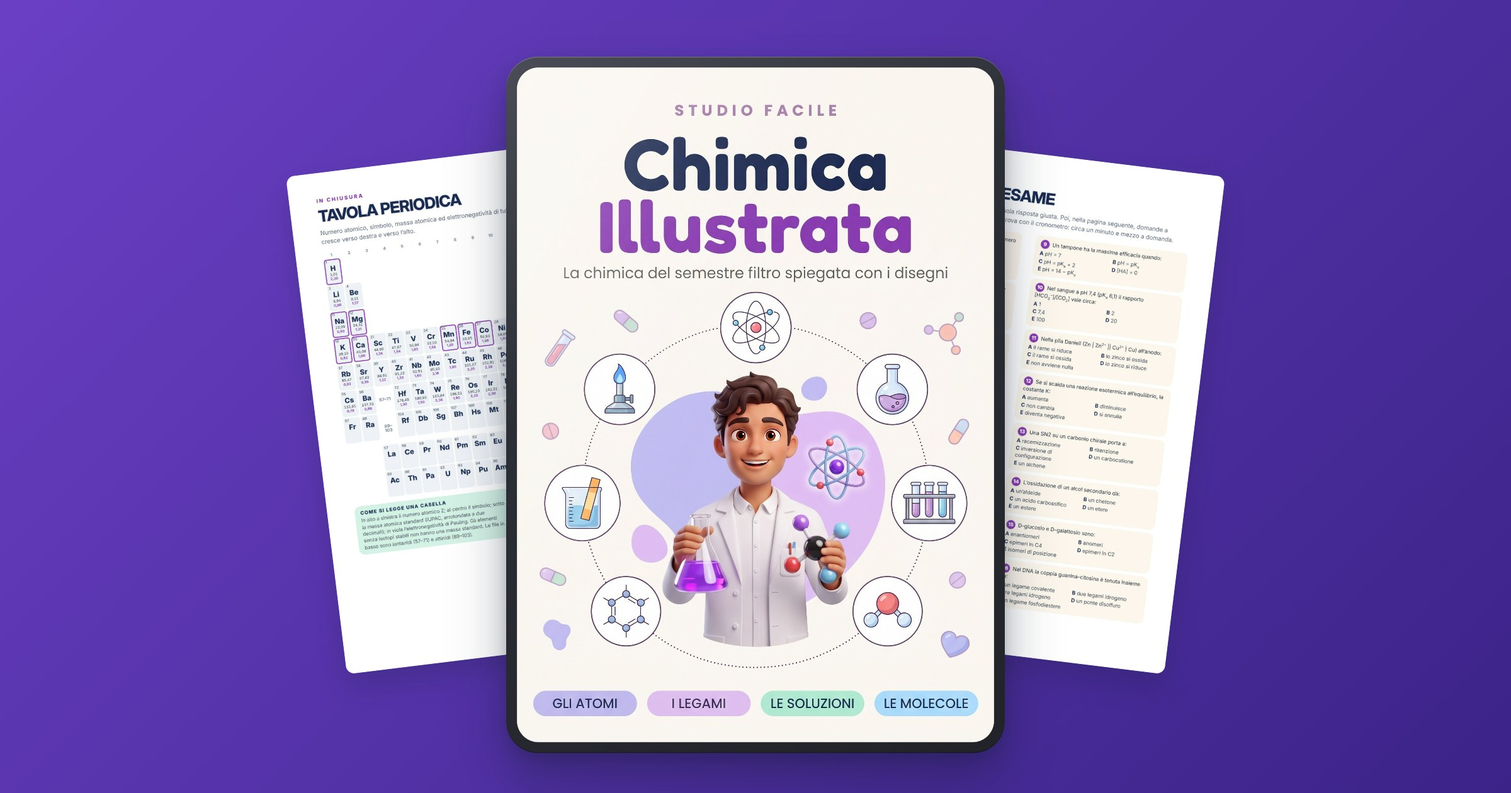
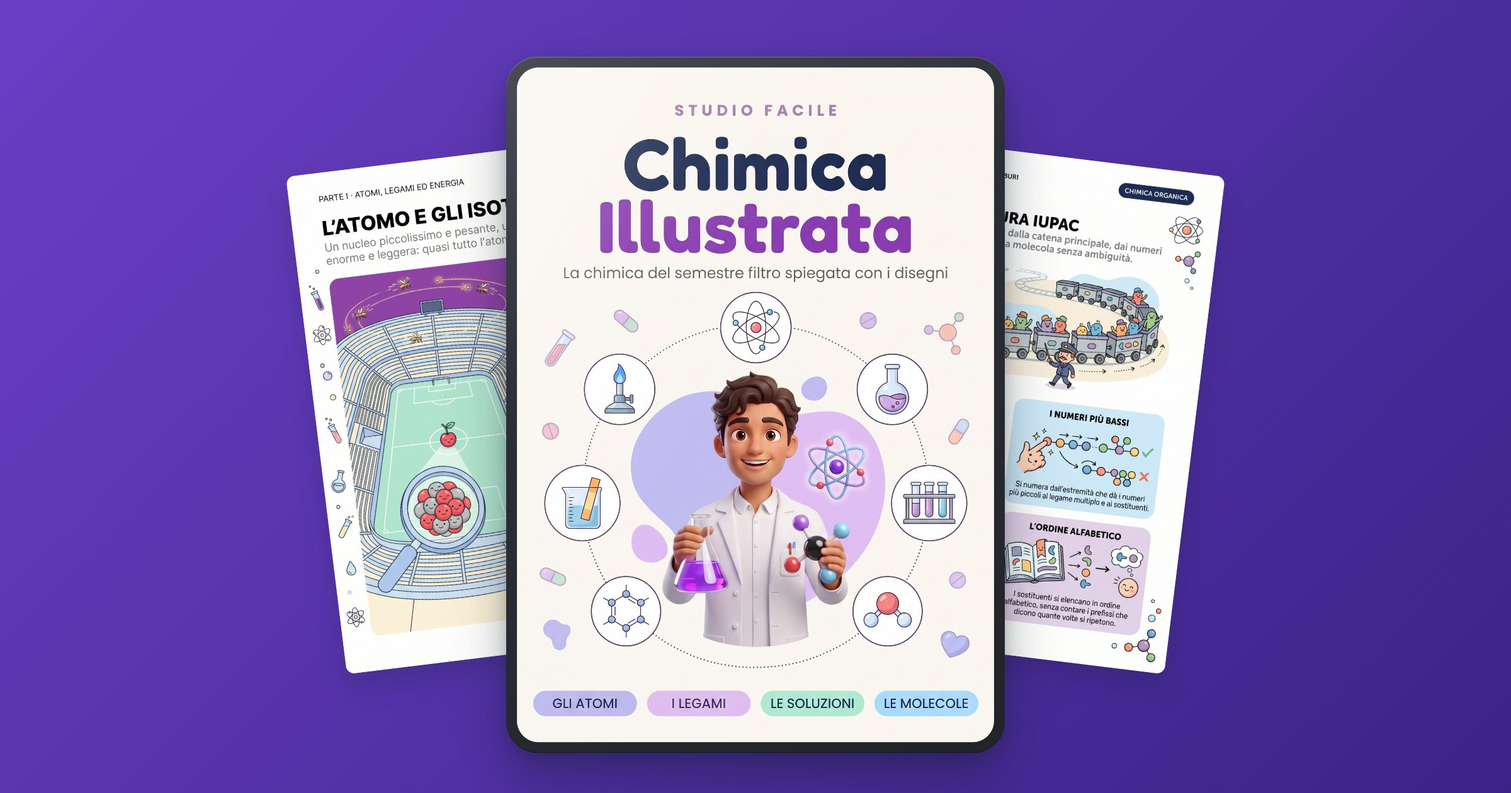
chimica: pagine vere, 156 pagine e i due bonus che esistono
La landing era del 22/09, quando in pagine/ c'erano solo le pagine di
chiusura: il carosello, il collage e i fogli dietro il tablet mostravano
tavola periodica, tabelle ed esami — nessuna pagina che facesse vedere
come si spiega un argomento. Ora il libro e' finito e si mostrano a1, p2,
c2, s8, r3 e m3.

Il conteggio veniva da struttura.py, che conta solo le pagine illustrate:
diceva 87 quando il PDF consegnato ne ha 156, perche' ogni pagina ha
accanto la sua scheda verificata. Ora si legge dal PDF.

I bonus erano «Le Parole della Chimica», mai scritto, e «Quiz di Chimica»,
che esiste solo come banca dati senza PDF: chi comprava pagava tre cose e
ne riceveva una. Al loro posto due file consegnabili oggi e utili allo
stesso esame — 300 Quiz di Biologia e Ripasso Rapido di Fisica, le altre
due materie del semestre filtro — con le copertine vere, non finte.

Changed region(s): [[0.6562, 0.2167, 0.8125, 0.8357], [0.1875, 0.2167, 0.3438, 0.8048]]

diff --git a/chimica.html b/chimica.html
@@ -22,7 +22,7 @@
   <meta name="theme-color" content="#2645a0">
   <!-- title ~57 y description ~148 caracteres: es lo que Google alcanza a mostrar -->
   <title>Chimica Illustrata: la chimica spiegata con i disegni | Studio Facile</title>
-  <meta name="description" content="La chimica in 87 pagine illustrate, 7 parti e 69 capitoli con formule e numeri verificati, più 2 bonus. Per liceo, test d'ingresso e semestre filtro. 19,90€.">
+  <meta name="description" content="La chimica in 156 pagine illustrate, 7 parti e 69 capitoli con formule e numeri verificati, più 2 bonus. Per liceo, test d'ingresso e semestre filtro. 19,90€.">
   <meta name="robots" content="noindex, nofollow">
   <meta name="author" content="Studio Facile">
   <link rel="alternate" hreflang="it" href="https://www.studiofacilebook.com/chimica">
@@ -44,7 +44,7 @@
   <!-- Twitter / X -->
   <meta name="twitter:card" content="summary_large_image">
   <meta name="twitter:title" content="Chimica Illustrata | Studio Facile">
-  <meta name="twitter:description" content="87 pagine illustrate con formule e numeri verificati + 2 bonus.">
+  <meta name="twitter:description" content="156 pagine illustrate con formule e numeri verificati + 2 bonus.">
   <meta name="twitter:image" content="https://www.studiofacilebook.com/mockups/chimica/og.jpg">
 
   <!-- Iconos -->
@@ -2089,7 +2089,7 @@
     }
   </style>
   <script type="application/ld+json">
-{"@context": "https://schema.org", "@graph": [{"@type": "Product", "name": "Kit di Chimica Illustrata", "brand": {"@type": "Brand", "name": "Studio Facile"}, "description": "La chimica in 87 pagine illustrate, 7 parti e 69 capitoli: atomi e legami, soluzioni, reazioni ed equilibrio, acidi e basi, idrocarburi, gruppi funzionali, biomolecole. Più 2 bonus, in italiano.", "image": "https://www.studiofacilebook.com/mockups/chimica/og.jpg", "offers": {"@type": "Offer", "price": "19.90", "priceCurrency": "EUR", "availability": "https://schema.org/InStock", "url": "https://checkout.studiofacilebook.com/checkout/kit-chimica-illustrata", "hasMerchantReturnPolicy": {"@type": "MerchantReturnPolicy", "returnPolicyCategory": "https://schema.org/MerchantReturnFiniteReturnWindow", "merchantReturnDays": 30, "applicableCountry": "IT"}}}, {"@type": "FAQPage", "mainEntity": [{"@type": "Question", "name": "Come riceverò il materiale?", "acceptedAnswer": {"@type": "Answer", "text": "Dopo l'acquisto ricevi un'email automatica con Chimica Illustrata e i due bonus, Le Parole della Chimica e Quiz di Chimica del Semestre Filtro. Sono PDF in alta risoluzione, da scaricare, stampare o consultare da telefono, tablet o computer."}}, {"@type": "Question", "name": "Il pagamento è mensile o unico?", "acceptedAnswer": {"@type": "Answer", "text": "Pagamento unico di 19,90€. Nessuna rata, nessun addebito ricorrente, nessuna sorpresa. Paghi una volta e il materiale è tuo per sempre."}}, {"@type": "Question", "name": "Serve partire da zero o bisogna già sapere qualcosa?", "acceptedAnswer": {"@type": "Answer", "text": "Si parte da zero: la prima parte comincia dall'atomo, dagli isotopi e dalla configurazione elettronica, e arriva alla mole e ai legami prima di qualsiasi calcolo. Ogni pagina mette accanto al disegno che spiega l'idea le formule e i numeri che servono."}}, {"@type": "Question", "name": "Va bene per il test d'ingresso e per il semestre filtro?", "acceptedAnswer": {"@type": "Answer", "text": "Sì. Le sette parti seguono, nello stesso ordine, le sette unità didattiche del Syllabus ministeriale 2026 di Chimica e propedeutica biochimica, e ogni voce del programma ha la sua pagina. In fondo ci sono 30 domande stile esame con le soluzioni, e il bonus aggiunge 300 quiz con 3 simulazioni. Gli stessi argomenti sono quelli del liceo, della maturità, dei test d'ingresso come il TOLC e del primo esame di Chimica all'università."}}, {"@type": "Question", "name": "Le formule e i numeri sono affidabili?", "acceptedAnswer": {"@type": "Answer", "text": "Sì. Formule, equazioni, costanti ed esempi numerici sono composti al computer e ricalcolati uno per uno, non ricopiati a mano; le masse atomiche sono i valori standard IUPAC. In un esame a crocette un pedice o una virgola sbagliati sono una risposta sbagliata: per questo i numeri del libro non si toccano."}}, {"@type": "Question", "name": "Posso stampare il materiale?", "acceptedAnswer": {"@type": "Answer", "text": "Sì, per uso personale e senza limiti. I PDF sono in alta risoluzione, da stampare, sottolineare e ripassare prima di una verifica o di un esame."}}]}]}
+{"@context": "https://schema.org", "@graph": [{"@type": "Product", "name": "Kit di Chimica Illustrata", "brand": {"@type": "Brand", "name": "Studio Facile"}, "description": "La chimica in 156 pagine illustrate, 7 parti e 69 capitoli: atomi e legami, soluzioni, reazioni ed equilibrio, acidi e basi, idrocarburi, gruppi funzionali, biomolecole. Più 2 bonus, in italiano.", "image": "https://www.studiofacilebook.com/mockups/chimica/og.jpg", "offers": {"@type": "Offer", "price": "19.90", "priceCurrency": "EUR", "availability": "https://schema.org/InStock", "url": "https://checkout.studiofacilebook.com/checkout/kit-chimica-illustrata", "hasMerchantReturnPolicy": {"@type": "MerchantReturnPolicy", "returnPolicyCategory": "https://schema.org/MerchantReturnFiniteReturnWindow", "merchantReturnDays": 30, "applicableCountry": "IT"}}}, {"@type": "FAQPage", "mainEntity": [{"@type": "Question", "name": "Come riceverò il materiale?", "acceptedAnswer": {"@type": "Answer", "text": "Dopo l'acquisto ricevi un'email automatica con Chimica Illustrata e i due bonus, 300 Quiz di Biologia e Ripasso Rapido di Fisica. Sono PDF in alta risoluzione, da scaricare, stampare o consultare da telefono, tablet o computer."}}, {"@type": "Question", "name": "Il pagamento è mensile o unico?", "acceptedAnswer": {"@type": "Answer", "text": "Pagamento unico di 19,90€. Nessuna rata, nessun addebito ricorrente, nessuna sorpresa. Paghi una volta e il materiale è tuo per sempre."}}, {"@type": "Question", "name": "Serve partire da zero o bisogna già sapere qualcosa?", "acceptedAnswer": {"@type": "Answer", "text": "Si parte da zero: la prima parte comincia dall'atomo, dagli isotopi e dalla configurazione elettronica, e arriva alla mole e ai legami prima di qualsiasi calcolo. Ogni pagina mette accanto al disegno che spiega l'idea le formule e i numeri che servono."}}, {"@type": "Question", "name": "Va bene per il test d'ingresso e per il semestre filtro?", "acceptedAnswer": {"@type": "Answer", "text": "Sì. Le sette parti seguono, nello stesso ordine, le sette unità didattiche del Syllabus ministeriale 2026 di Chimica e propedeutica biochimica, e ogni voce del programma ha la sua pagina. In fondo ci sono 30 domande stile esame con le soluzioni, e il bonus di biologia aggiunge 300 quiz con 3 simulazioni. Gli stessi argomenti sono quelli del liceo, della maturità, dei test d'ingresso come il TOLC e del primo esame di Chimica all'università."}}, {"@type": "Question", "name": "Le formule e i numeri sono affidabili?", "acceptedAnswer": {"@type": "Answer", "text": "Sì. Formule, equazioni, costanti ed esempi numerici sono composti al computer e ricalcolati uno per uno, non ricopiati a mano; le masse atomiche sono i valori standard IUPAC. In un esame a crocette un pedice o una virgola sbagliati sono una risposta sbagliata: per questo i numeri del libro non si toccano."}}, {"@type": "Question", "name": "Posso stampare il materiale?", "acceptedAnswer": {"@type": "Answer", "text": "Sì, per uso personale e senza limiti. I PDF sono in alta risoluzione, da stampare, sottolineare e ripassare prima di una verifica o di un esame."}}]}]}
   </script>
 <!-- Brevo: seguimiento web (visitas y clics de compra para las automatizaciones) -->
 <script src="https://cdn.brevo.com/js/sdk-loader.js" async></script>
@@ -2131,7 +2131,7 @@
   <section class="hero">
     <div class="hero-content">
       <div class="hero-mockup">
-        <img src="https://czocbnyoenjbpxmcqobn.supabase.co/storage/v1/object/public/algoritmia-img/studiofacile/mockups/chimica/hero.webp?v=c5c78c68" alt="Chimica Illustrata: la copertina nel tablet, con la tavola periodica e le domande stile esame"
+        <img src="https://czocbnyoenjbpxmcqobn.supabase.co/storage/v1/object/public/algoritmia-img/studiofacile/mockups/chimica/hero.webp?v=593ffae5" alt="Chimica Illustrata: la copertina nel tablet, con la tavola periodica e le domande stile esame"
              width="1200" height="886" loading="eager" fetchpriority="high" decoding="async">
       </div>
       <p class="hero-social">
@@ -2158,7 +2158,7 @@
         </div>
         <div class="stat-item">
           <div class="icon"><svg aria-hidden="true" focusable="false" class="lc" viewBox="0 0 24 24" fill="none" stroke="currentColor" stroke-width="2" stroke-linecap="round" stroke-linejoin="round"><path d="M4 19.5v-15A2.5 2.5 0 0 1 6.5 2H20v20H6.5a2.5 2.5 0 0 1 0-5H20"/></svg></div>
-          <strong>87 pagine illustrate</strong>
+          <strong>156 pagine illustrate</strong>
           <p>7 parti e 69 capitoli, dall'atomo al DNA</p>
         </div>
         <div class="stat-item">
@@ -2174,40 +2174,40 @@
   <section class="section" aria-label="Anteprime del materiale">
     <div class="container">
       <h2 class="text-center">Ecco Come Sono le Pagine Che Studierai</h2>
-      <p class="text-center section-sub-p">Pagine vere del libro: la tavola periodica, le tabelle con le costanti e le domande stile esame con le soluzioni. Tocca una pagina per vederla in grande:</p>
+      <p class="text-center section-sub-p">Pagine vere del libro: un argomento per pagina, prima il disegno e poi la formula. Tocca una pagina per vederla in grande:</p>
       
       <div class="testimonials-carousel-wrap" role="region" aria-label="Carosello delle anteprime del materiale">
         <button type="button" class="carousel-nav" data-dir="prev" data-target="amostras-scroll" aria-label="Anteprima precedente"><svg viewBox="0 0 24 24" fill="none" stroke="currentColor" stroke-width="2.4" stroke-linecap="round" stroke-linejoin="round" aria-hidden="true"><polyline points="15 18 9 12 15 6"></polyline></svg></button>
         <button type="button" class="carousel-nav" data-dir="next" data-target="amostras-scroll" aria-label="Anteprima successiva"><svg viewBox="0 0 24 24" fill="none" stroke="currentColor" stroke-width="2.4" stroke-linecap="round" stroke-linejoin="round" aria-hidden="true"><polyline points="9 18 15 12 9 6"></polyline></svg></button>
         <div class="testimonials-scroll" id="amostras-scroll" role="list" data-no-autoplay>
           <article class="testimonial-item amostra-item" role="listitem">
-            <button type="button" class="amostra-btn" data-galleria="chimica" data-galleria-pagina="0" aria-label="Ingrandisci: La tavola periodica completa">
-              <img src="https://czocbnyoenjbpxmcqobn.supabase.co/storage/v1/object/public/algoritmia-img/studiofacile/anteprime/chimica_tavola.webp?v=90f1a855" alt="La tavola periodica completa" width="1100" height="1473" loading="lazy" decoding="async">
-              <span class="amostra-cap">La tavola periodica completa</span>
+            <button type="button" class="amostra-btn" data-galleria="chimica" data-galleria-pagina="0" aria-label="Ingrandisci: L'atomo e gli isotopi">
+              <img src="https://czocbnyoenjbpxmcqobn.supabase.co/storage/v1/object/public/algoritmia-img/studiofacile/anteprime/chimica_a1.webp?v=6109b202" alt="L'atomo e gli isotopi" width="1100" height="1473" loading="lazy" decoding="async">
+              <span class="amostra-cap">L'atomo e gli isotopi</span>
             </button>
           </article>
           <article class="testimonial-item amostra-item" role="listitem">
-            <button type="button" class="amostra-btn" data-galleria="chimica" data-galleria-pagina="1" aria-label="Ingrandisci: Tabelle e costanti">
-              <img src="https://czocbnyoenjbpxmcqobn.supabase.co/storage/v1/object/public/algoritmia-img/studiofacile/anteprime/chimica_tabelle.webp?v=3e4b1629" alt="Tabelle e costanti" width="1100" height="1473" loading="lazy" decoding="async">
-              <span class="amostra-cap">Tabelle e costanti</span>
+            <button type="button" class="amostra-btn" data-galleria="chimica" data-galleria-pagina="1" aria-label="Ingrandisci: L'acqua, il pH e il pOH">
+              <img src="https://czocbnyoenjbpxmcqobn.supabase.co/storage/v1/object/public/algoritmia-img/studiofacile/anteprime/chimica_p2.webp?v=efb4aba5" alt="L'acqua, il pH e il pOH" width="1100" height="1473" loading="lazy" decoding="async">
+              <span class="amostra-cap">L'acqua, il pH e il pOH</span>
             </button>
           </article>
           <article class="testimonial-item amostra-item" role="listitem">
-            <button type="button" class="amostra-btn" data-galleria="chimica" data-galleria-pagina="2" aria-label="Ingrandisci: Domande stile esame">
-              <img src="https://czocbnyoenjbpxmcqobn.supabase.co/storage/v1/object/public/algoritmia-img/studiofacile/anteprime/chimica_esame1.webp?v=3a47a5d8" alt="Domande stile esame" width="1100" height="1473" loading="lazy" decoding="async">
-              <span class="amostra-cap">Domande stile esame</span>
+            <button type="button" class="amostra-btn" data-galleria="chimica" data-galleria-pagina="2" aria-label="Ingrandisci: Dare il nome: la nomenclatura IUPAC">
+              <img src="https://czocbnyoenjbpxmcqobn.supabase.co/storage/v1/object/public/algoritmia-img/studiofacile/anteprime/chimica_c2.webp?v=6abed567" alt="Dare il nome: la nomenclatura IUPAC" width="1100" height="1473" loading="lazy" decoding="async">
+              <span class="amostra-cap">Dare il nome: la nomenclatura IUPAC</span>
             </button>
           </article>
           <article class="testimonial-item amostra-item" role="listitem">
-            <button type="button" class="amostra-btn" data-galleria="chimica" data-galleria-pagina="3" aria-label="Ingrandisci: Domande a completamento e soluzioni">
-              <img src="https://czocbnyoenjbpxmcqobn.supabase.co/storage/v1/object/public/algoritmia-img/studiofacile/anteprime/chimica_esame2.webp?v=fa0b2f48" alt="Domande a completamento e soluzioni" width="1100" height="1473" loading="lazy" decoding="async">
-              <span class="amostra-cap">Domande a completamento e soluzioni</span>
+            <button type="button" class="amostra-btn" data-galleria="chimica" data-galleria-pagina="3" aria-label="Ingrandisci: Osmolarità e tonicità">
+              <img src="https://czocbnyoenjbpxmcqobn.supabase.co/storage/v1/object/public/algoritmia-img/studiofacile/anteprime/chimica_s8.webp?v=6140a8b5" alt="Osmolarità e tonicità" width="1100" height="1473" loading="lazy" decoding="async">
+              <span class="amostra-cap">Osmolarità e tonicità</span>
             </button>
           </article>
           <article class="testimonial-item amostra-item" role="listitem">
-            <button type="button" class="amostra-btn" data-galleria="chimica" data-galleria-pagina="4" aria-label="Ingrandisci: Il sommario: 7 parti, 69 capitoli">
-              <img src="https://czocbnyoenjbpxmcqobn.supabase.co/storage/v1/object/public/algoritmia-img/studiofacile/anteprime/chimica_sommario.webp?v=ab82a08d" alt="Il sommario: 7 parti, 69 capitoli" width="1100" height="1473" loading="lazy" decoding="async">
-              <span class="amostra-cap">Il sommario: 7 parti, 69 capitoli</span>
+            <button type="button" class="amostra-btn" data-galleria="chimica" data-galleria-pagina="4" aria-label="Ingrandisci: Energia di attivazione e catalizzatori">
+              <img src="https://czocbnyoenjbpxmcqobn.supabase.co/storage/v1/object/public/algoritmia-img/studiofacile/anteprime/chimica_r3.webp?v=6494553a" alt="Energia di attivazione e catalizzatori" width="1100" height="1473" loading="lazy" decoding="async">
+              <span class="amostra-cap">Energia di attivazione e catalizzatori</span>
             </button>
           </article>
         </div>
@@ -2287,7 +2287,7 @@
             <li>Gli elementi della vita in evidenza</li>
             <li>Trovi quello che serve al primo sguardo</li>
           </ul>
-          <img src="https://czocbnyoenjbpxmcqobn.supabase.co/storage/v1/object/public/algoritmia-img/studiofacile/anteprime/chimica_tavola.webp?v=90f1a855" alt="La tavola periodica completa" width="1100" height="1473" loading="lazy" decoding="async">
+          <img src="https://czocbnyoenjbpxmcqobn.supabase.co/storage/v1/object/public/algoritmia-img/studiofacile/anteprime/chimica_p2.webp?v=efb4aba5" alt="L'acqua, il pH e il pOH" width="1100" height="1473" loading="lazy" decoding="async">
         </div>
       </div>
     </div>
@@ -2299,7 +2299,7 @@
       <div class="section-header">
         <span class="eyebrow eyebrow-inverse">Sommario</span>
         <h2>Dai un'occhiata alle 7 parti e ai 69 capitoli</h2>
-        <p class="subjects-subtitle">Dall'atomo al DNA: 87 pagine, un capitolo per pagina</p>
+        <p class="subjects-subtitle">Dall'atomo al DNA: 156 pagine, un capitolo per pagina</p>
       </div>
       <div class="subjects-accordion fade-in visible" role="list">
         <div class="subject-item" data-open="false" role="listitem">
@@ -2375,7 +2375,7 @@
         <div class="subject-item" data-open="false" role="listitem">
           <button class="subject-summary" type="button" aria-expanded="false" aria-controls="subj-content-8">
             <span class="subject-num" aria-hidden="true">&middot;</span>
-            <span class="subject-title">In chiusura <em style="font-style:normal;opacity:.6;font-weight:600">&middot; pp. 81-87</em></span>
+            <span class="subject-title">In chiusura <em style="font-style:normal;opacity:.6;font-weight:600">&middot; pp. 81-156</em></span>
             <span class="subject-icon" aria-hidden="true"></span>
           </button>
           <div class="subject-content" id="subj-content-8" role="region">
@@ -2410,7 +2410,7 @@
     <div class="container">
       <h2 class="text-center">Ecco Cosa Riceverai Acquistando Chimica Illustrata:</h2>
       <div style="margin: 20px auto 28px;">
-        <img src="https://czocbnyoenjbpxmcqobn.supabase.co/storage/v1/object/public/algoritmia-img/studiofacile/mockups/chimica/combo.webp?v=31bfe126" alt="Chimica Illustrata: la copertina con le pagine vere intorno" width="1100" height="1620" loading="lazy" decoding="async" style="max-width: 480px; width: 100%; display: block; margin: 0 auto;">
+        <img src="https://czocbnyoenjbpxmcqobn.supabase.co/storage/v1/object/public/algoritmia-img/studiofacile/mockups/chimica/combo.webp?v=a1618c75" alt="Chimica Illustrata: la copertina con le pagine vere intorno" width="1100" height="1620" loading="lazy" decoding="async" style="max-width: 480px; width: 100%; display: block; margin: 0 auto;">
       </div>
       <div class="topics-grid">
         <div class="topic-item">
@@ -2486,35 +2486,45 @@
       <h2 class="text-center">Ma Non è Tutto: Riceverai Anche 2 Bonus in Regalo</h2>
 
       <div class="bonus-grid">
-        <div class="bonus-item">
-          <div class="icon" style="color:var(--accent)"><svg aria-hidden="true" focusable="false" width="40" height="40" viewBox="0 0 24 24" fill="none" stroke="currentColor" stroke-width="2" stroke-linecap="round" stroke-linejoin="round"><path d="M4 19.5v-15A2.5 2.5 0 0 1 6.5 2H20v20H6.5a2.5 2.5 0 0 1 0-5H20"/></svg></div>
-          <h3>BONUS 1: &ldquo;Le Parole della Chimica&rdquo;</h3>
-          <p class="value">Valore singolo: 17,90€</p>
-          <p>I termini della chimica spiegati con i disegni, uno per uno. Smetti di confondere enantiomeri e diastereoisomeri, osmolarità e osmolalità, e inizia a capire che cosa vuol dire davvero ogni parola che trovi negli esercizi.</p>
+        <div class="bonus-item-with-image">
+          <div class="bonus-mockup">
+            <img src="https://czocbnyoenjbpxmcqobn.supabase.co/storage/v1/object/public/algoritmia-img/studiofacile/mockups/biologia/bonus-quiz.webp?v=65608500" alt="300 Quiz di Biologia: 300 domande con la soluzione spiegata" width="720" height="1000" loading="lazy" decoding="async">
+          </div>
+          <div class="bonus-text">
+            <h3>BONUS 1: &ldquo;300 Quiz di Biologia&rdquo;</h3>
+            <p class="value">Valore singolo: 17,90&euro;</p>
+            <ul>
+              <li>300 domande con la soluzione spiegata</li>
+              <li>Divise per unit&agrave; del programma</li>
+              <li>A risposta multipla e a completamento, come all&rsquo;esame</li>
+              <li>3 simulazioni complete a tempo</li>
+            </ul>
+            <p>Al semestre filtro la biologia si d&agrave; insieme alla chimica: qui ti alleni sul formato vero dell&rsquo;esame e capisci subito dove sbagli.</p>
+            <div class="bonus-sfoglia"><figure><img src="https://czocbnyoenjbpxmcqobn.supabase.co/storage/v1/object/public/algoritmia-img/studiofacile/anteprime/quizbio_01.webp?v=9e2c0905" alt="Una pagina di domande con le soluzioni spiegate" width="1100" height="1557" loading="lazy" decoding="async"><figcaption>Ogni domanda con la sua spiegazione</figcaption></figure><figure><img src="https://czocbnyoenjbpxmcqobn.supabase.co/storage/v1/object/public/algoritmia-img/studiofacile/anteprime/quizbio_02.webp?v=f4d876f3" alt="Una simulazione completa a tempo" width="1100" height="1557" loading="lazy" decoding="async"><figcaption>Simulazioni sul formato dell&rsquo;esame</figcaption></figure></div>
+          </div>
         </div>
 
-        <div class="bonus-item">
-          <div class="icon" style="color:var(--accent)"><svg aria-hidden="true" focusable="false" width="40" height="40" viewBox="0 0 24 24" fill="none" stroke="currentColor" stroke-width="2" stroke-linecap="round" stroke-linejoin="round"><path d="M9 11l3 3L22 4"/><path d="M21 12v7a2 2 0 0 1-2 2H5a2 2 0 0 1-2-2V5a2 2 0 0 1 2-2h11"/></svg></div>
-          <h3>BONUS 2: &ldquo;Quiz di Chimica del Semestre Filtro&rdquo;</h3>
-          <p class="value">Valore singolo: 16,90€</p>
-          <ul>
-            <li>300 domande con la soluzione spiegata</li>
-            <li>Divise per le 7 unità del programma</li>
-            <li>A risposta multipla e a completamento, come all'esame</li>
-            <li>3 simulazioni complete: 31 domande in 50 minuti</li>
-          </ul>
-          <p>Ti alleni sul formato vero dell'esame e capisci subito dove sbagli e che cosa devi ancora ripassare.</p>
+        <div class="bonus-item-with-image">
+          <div class="bonus-mockup">
+            <img src="https://czocbnyoenjbpxmcqobn.supabase.co/storage/v1/object/public/algoritmia-img/studiofacile/mockups/fisica/bonus-ripasso.webp?v=cef68325" alt="Ripasso Rapido di Fisica: 30 schede di ripasso" width="720" height="1000" loading="lazy" decoding="async">
+          </div>
+          <div class="bonus-text">
+            <h3>BONUS 2: &ldquo;Ripasso Rapido di Fisica&rdquo;</h3>
+            <p class="value">Valore singolo: 16,90&euro;</p>
+            <p>30 schede, una per argomento, con la formula, il disegno e la trappola che torna sempre. La terza materia del semestre filtro, ripassata in un pomeriggio.</p>
+            <div class="bonus-sfoglia"><figure><img src="https://czocbnyoenjbpxmcqobn.supabase.co/storage/v1/object/public/algoritmia-img/studiofacile/anteprime/fisica_ripasso_01.webp?v=c69bfe91" alt="Una scheda di ripasso di fisica" width="1100" height="1557" loading="lazy" decoding="async"><figcaption>Una scheda per argomento</figcaption></figure><figure><img src="https://czocbnyoenjbpxmcqobn.supabase.co/storage/v1/object/public/algoritmia-img/studiofacile/anteprime/fisica_ripasso_02.webp?v=6e4339b6" alt="Formule, disegno e trappole d&rsquo;esame" width="1100" height="1557" loading="lazy" decoding="async"><figcaption>La formula, il disegno e la trappola</figcaption></figure></div>
+          </div>
         </div>
       </div>
 
       <!-- DECISION BOX -->
       <div class="decision-box" id="offerta">
-        <img src="https://czocbnyoenjbpxmcqobn.supabase.co/storage/v1/object/public/algoritmia-img/studiofacile/mockups/chimica/hero.webp?v=c5c78c68" alt="Chimica Illustrata con i due bonus in regalo" class="db-mockup" width="1200" height="886" loading="lazy" decoding="async">
+        <img src="https://czocbnyoenjbpxmcqobn.supabase.co/storage/v1/object/public/algoritmia-img/studiofacile/mockups/chimica/hero.webp?v=593ffae5" alt="Chimica Illustrata con i due bonus in regalo" class="db-mockup" width="1200" height="886" loading="lazy" decoding="async">
         <h3 class="db-title">Chimica Illustrata + 2 Bonus in Regalo</h3>
         <ul class="db-checklist">
-          <li><span class="db-check"><svg viewBox="0 0 24 24"><polyline points="20 6 9 17 4 12"/></svg></span>Chimica Illustrata: 87 pagine illustrate<span class="db-price-val">56,20€</span></li>
-          <li><span class="db-check"><svg viewBox="0 0 24 24"><polyline points="20 6 9 17 4 12"/></svg></span>Bonus 1: Le Parole della Chimica<span class="db-price-val">17,90€</span></li>
-          <li><span class="db-check"><svg viewBox="0 0 24 24"><polyline points="20 6 9 17 4 12"/></svg></span>Bonus 2: Quiz di Chimica del Semestre Filtro<span class="db-price-val">16,90€</span></li>
+          <li><span class="db-check"><svg viewBox="0 0 24 24"><polyline points="20 6 9 17 4 12"/></svg></span>Chimica Illustrata: 156 pagine illustrate<span class="db-price-val">56,20€</span></li>
+          <li><span class="db-check"><svg viewBox="0 0 24 24"><polyline points="20 6 9 17 4 12"/></svg></span>Bonus 1: 300 Quiz di Biologia<span class="db-price-val">17,90€</span></li>
+          <li><span class="db-check"><svg viewBox="0 0 24 24"><polyline points="20 6 9 17 4 12"/></svg></span>Bonus 2: Ripasso Rapido di Fisica<span class="db-price-val">16,90€</span></li>
           <li><span class="db-check"><svg viewBox="0 0 24 24"><polyline points="20 6 9 17 4 12"/></svg></span>PDF in alta risoluzione per stampare<span class="db-price-val">Incluso</span></li>
         </ul>
         <div class="db-anchoring">
@@ -2588,10 +2598,10 @@
     <div class="container">
       <h2 class="text-center">Ricapitolando: Ecco Cosa Ricevi</h2>
       <ul class="recap-list">
-        <li>Chimica Illustrata: 87 pagine illustrate in 7 parti e 69 capitoli, dall'atomo al DNA, con formule e numeri verificati</li>
+        <li>Chimica Illustrata: 156 pagine illustrate in 7 parti e 69 capitoli, dall'atomo al DNA, con formule e numeri verificati</li>
         <li>30 domande stile esame con le soluzioni, tavola periodica e tabelle delle costanti</li>
-        <li>Bonus 1: &ldquo;Le Parole della Chimica&rdquo;, i termini spiegati con i disegni (valore 17,90€)</li>
-        <li>Bonus 2: &ldquo;Quiz di Chimica del Semestre Filtro&rdquo;, 300 domande e 3 simulazioni con le soluzioni spiegate (valore 16,90€)</li>
+        <li>Bonus 1: &ldquo;300 Quiz di Biologia&rdquo;, 300 domande con le soluzioni spiegate e 3 simulazioni (valore 17,90€)</li>
+        <li>Bonus 2: &ldquo;Ripasso Rapido di Fisica&rdquo;, 30 schede di ripasso con formula, disegno e trappole d&rsquo;esame (valore 16,90€)</li>
         <li>Consegna via email: accesso immediato, senza spedizioni né attese</li>
         <li>Garanzia di 30 giorni senza domande: provi senza rischio</li>
         <li>PDF in alta risoluzione: stampa, sottolinea, portalo ovunque</li>
@@ -2630,7 +2640,7 @@
             Come riceverò il materiale?
           </button>
           <div class="faq-answer" id="faq1" hidden>
-            <p>Dopo l'acquisto ricevi un'email automatica con Chimica Illustrata e i due bonus, Le Parole della Chimica e Quiz di Chimica del Semestre Filtro. Sono PDF in alta risoluzione, da scaricare, stampare o consultare da telefono, tablet o computer.</p>
+            <p>Dopo l'acquisto ricevi un'email automatica con Chimica Illustrata e i due bonus, 300 Quiz di Biologia e Ripasso Rapido di Fisica. Sono PDF in alta risoluzione, da scaricare, stampare o consultare da telefono, tablet o computer.</p>
           </div>
         </div>
         <div class="faq-item">
@@ -2654,7 +2664,7 @@
             Va bene per il test d'ingresso e per il semestre filtro?
           </button>
           <div class="faq-answer" id="faq4" hidden>
-            <p>Sì. Le sette parti seguono, nello stesso ordine, le sette unità didattiche del Syllabus ministeriale 2026 di Chimica e propedeutica biochimica, e ogni voce del programma ha la sua pagina. In fondo ci sono 30 domande stile esame con le soluzioni, e il bonus aggiunge 300 quiz con 3 simulazioni. Gli stessi argomenti sono quelli del liceo, della maturità, dei test d'ingresso come il TOLC e del primo esame di Chimica all'università.</p>
+            <p>Sì. Le sette parti seguono, nello stesso ordine, le sette unità didattiche del Syllabus ministeriale 2026 di Chimica e propedeutica biochimica, e ogni voce del programma ha la sua pagina. In fondo ci sono 30 domande stile esame con le soluzioni, e il bonus di biologia aggiunge 300 quiz con 3 simulazioni. Gli stessi argomenti sono quelli del liceo, della maturità, dei test d'ingresso come il TOLC e del primo esame di Chimica all'università.</p>
           </div>
         </div>
         <div class="faq-item">
@@ -2685,7 +2695,7 @@
       <p>Non devi impazzire per imparare a memoria formule e reazioni che non hanno senso.</p>
       <p>E di sicuro <strong>non devi bruciarti un esame perché stavi usando un metodo che non funziona</strong>.</p>
       <p style="font-size: 22px; font-weight: 700; margin-top: 32px;">C'è un modo più semplice. Ed è a un clic di distanza.</p>
-      <p>87 pagine illustrate, formule e numeri verificati e due bonus in regalo.</p>
+      <p>156 pagine illustrate, formule e numeri verificati e due bonus in regalo.</p>
       <p><strong>Ora tocca a te.</strong></p>
       <div class="cta-summary">
         <ul>
@@ -3051,7 +3061,7 @@
     });
   </script>
 
-    <script src="/galleria.js?v=fdaf0f3f" defer></script>
+    <script src="/galleria.js?v=b8d0b2e5" defer></script>
 
 </body>
 </html>

diff --git a/galleria.js b/galleria.js
@@ -118,11 +118,11 @@
     chimica: {
       titolo: 'Chimica Illustrata',
       pagine: [
-        ['chimica_tavola', 'La tavola periodica completa'],
-        ['chimica_tabelle', 'Tabelle e costanti'],
-        ['chimica_esame1', 'Domande stile esame'],
-        ['chimica_esame2', 'Domande a completamento e soluzioni'],
-        ['chimica_sommario', 'Il sommario: 7 parti, 69 capitoli']
+        ['chimica_a1', 'L’atomo e gli isotopi'],
+        ['chimica_p2', 'L’acqua, il pH e il pOH'],
+        ['chimica_c2', 'Dare il nome: la nomenclatura IUPAC'],
+        ['chimica_s8', 'Osmolarità e tonicità'],
+        ['chimica_r3', 'Energia di attivazione e catalizzatori']
       ]
     },
     biologia: {
